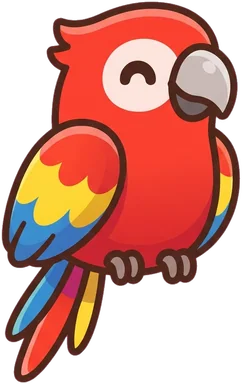
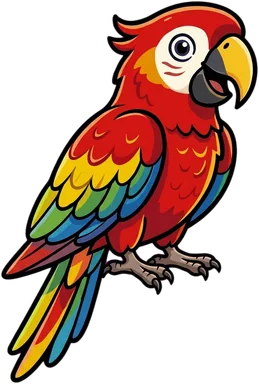
docs(todo): plan the parrot side card with fly-away and badge, owner's parrot pictures
Claude-Session: https://claude.ai/code/session_01Tigrh5qHc7XNxY2ag26vt9

diff --git a/.todo/67-parrot.md b/.todo/67-parrot.md
@@ -1,0 +1,107 @@
+# 67 - Parrot: a side card in every world that trains the same words until the fingers know them
+
+Source: `.research/game/activities.md`, section "The parrot" and decisions 8 and 10 (owner,
+2026-10-25). Pictures are ready: `ui-act-parrot` (card, a macaw) and `ui-badge-parrot` (badge,
+the macaw on a round branch), both in `public/assets/`.
+
+## What and why
+- Every world gets a **parrot card** next to its target range card. The parrot round repeats a
+  few words many times, so the fingers learn them (muscle memory). Speed is not judged; slow
+  typing is fine, the point is the practice.
+- A world's parrot counts as **won** once its round is finished. Won parrots can **fly away**
+  over time, so the child comes back and practises again.
+- The **Papagáj badge** (all parrots at home) is worth 7 points in the treasure chest and is
+  the one badge shown next to the player's name.
+
+## Affected
+- Data: profile progress (`src/storage/schema.ts`), a migration in `src/storage/store.ts`
+  (version 8 -> 9). Export files carry the new fields (old files migrate).
+- Game: new level kind `parrot` (`src/game/levels.ts`), new mode `src/game/modes/parrot.ts`,
+  `src/game/modes.ts`, end screen in `src/screens/level.ts`.
+- New pure logic `src/game/parrots.ts` (fly-away, badge) with tests.
+- Rewards: `src/game/rewards.ts` (chest +7, `MAX_CHEST` 60 -> 67).
+- Screens: map card node and narrator line (`src/screens/map.ts`), badge next to the name on
+  the start page card (`src/ui/profile-card.ts`), under the character on "Môj postup"
+  (`src/screens/stats.ts`) and on the map card (`src/screens/map.ts`).
+- i18n sk/en + guide, help (`help.more`, `help.games`), styles.
+- Specs: new `.specify/game/parrot.md` (+ `index.md`), `profiles/statistics.md` (chest 67),
+  `experience/help.md`, `experience/visuals.md` (parrot card and badge).
+
+## Decisions taken here
+- **When it opens:** like the range, when the world is done (`worldsDone`). The card shows
+  from then on: grey picture while the parrot is not won or flew away, full colour when won.
+  It starts only when the child clicks it, never by "Pokračovať".
+- **Badge:** held when every world in `worldsDone` has its parrot won (and at least one is).
+  A new finished world without its parrot takes the badge away until that parrot is won; this
+  follows the owner's "all parrots of the worlds I have".
+- **Stored fields** in `progress`: `parrots: number[]` (worlds with the parrot won),
+  `parrotBest: number` (highest count ever), `parrotWonAt: string | null` (ISO day of the last
+  win), `parrotCheckedAt: string | null` (last day the fly-away was rolled), `parrotFlown:
+  number[]` (worlds that flew away and are not yet told; cleared when the map shows the line).
+  Migration: empty lists, 0, null.
+- **Fly-away** (`src/game/parrots.ts`, pure, takes the profile, today's ISO day and an rng):
+  - floor = max(1, parrotBest - 3); nothing flies while count <= floor.
+  - for each day after `parrotCheckedAt` up to today (first ever check: only today): 20 %
+    chance one random won parrot flies away (not below the floor).
+  - if today is 21 or more days after `parrotWonAt`: drop straight to the floor (random ones).
+  - flown worlds go to `parrotFlown`; `parrotCheckedAt` = today.
+  - Runs once when a profile opens its map (also after import). The super player (memory only)
+    runs it too; that is harmless.
+- **Winning:** finishing the round adds the world to `parrots` (if not there), updates
+  `parrotBest`, sets `parrotWonAt` = today. Replaying a won parrot only refreshes `parrotWonAt`.
+- **Round size** by story order s (1 dragon, 2 robot, 3 fairy) and the world's place w (1-5):
+
+  | | s = 1 | s = 2 | s = 3 |
+  |---|---|---|---|
+  | words | 3 | 4 | 5 |
+  | letters per word | w <= 2: 2-4, else 3-5 | w <= 2: 4-5, else 4-6 | w <= 2: 5-6, else 5-7 |
+  | repeats per word (phase 2) | 3 | 4 | 5 |
+
+  Words: the world's last level key set, through the normal word source with that length
+  range, real words when the pool allows (drills in the meadow's tiny key set are fine), all
+  different and with different first letters where possible; new words each play.
+- **Round:** phase 1 (learning): the words in turn, 3 rounds (dom strom časy dom strom časy
+  dom strom časy). Phase 2 (repeating): each word its number of times in a row. A wrong key
+  adds 2 repetitions of the current word, at most +6 per word. One target at a time; the next
+  one is shown greyed after it so the child sees what comes.
+- **Scene:** the world's own background (as the range). Tapko left, the parrot (`ui-act-parrot`
+  drawn as a sprite) on a perch at the right. The word to type is in a bubble between them; when
+  it is typed, the parrot "repeats" it: a bubble from the parrot with the same word and a short
+  squawk sound (the voice reads it only when reading aloud is on). Phase 2 starts with one
+  line of Tapko ("Teraz každé slovo niekoľkokrát za sebou.").
+- **No stars**, no rating of speed. The typing counts in statistics, the paw charge and keys
+  as in the range. Super help works as everywhere (nothing can be missed).
+- **End screen:** the parrot in colour, "Papagáj sa naučil tvoje slová!", the words learned,
+  and, the first time the badge is reached, the badge picture with its line.
+- **Map line when parrots flew away:** the narrator bubble on the map: "Uletel ti papagáj zo
+  sveta {world}. Choď poň!" (several: "Uleteli ti papagáje zo svetov ..."). Shown once.
+- **Badge places:** a small badge picture (about 28 px, tooltip "Odznak Papagáj: všetky
+  papagáje sú doma") right of the name on the start page's player card and on the map's
+  hello title; on "Môj postup" just under the character. Nothing when the badge is not held.
+
+## Steps
+- [ ] 1. Data: new progress fields, migration 8 -> 9 with a store test (old export imports).
+- [ ] 2. `src/game/parrots.ts`: floor, daily rolls with catch-up, 21-day drop, win, badge;
+      unit tests (13 missed days = 13 rolls, floor kept, last parrot stays, 21-day drop, badge
+      lost when a world is added).
+- [ ] 3. Level kind `parrot` and `parrotLevel(p, world)` like `aimLevel`, with the round size
+      table; route `id: 'parrot'` in `src/screens/level.ts`.
+- [ ] 4. `ParrotMode`: phases, +2 repeats per slip (cap 6), parrot repeat bubble and sound,
+      progress bar, finished state; test the word plan (counts, repeats, cap) as pure code.
+- [ ] 5. End screen and winning (step 2's win), no stars.
+- [ ] 6. Map: parrot node after the range node (grey or colour picture, tooltip), fly-away run
+      on map open, narrator line for flown parrots.
+- [ ] 7. Badge: chest +7 (`MAX_CHEST` 67), badge picture on the start card, map title and
+      "Môj postup".
+- [ ] 8. i18n sk/en + guide (`parrot.*`, `map.parrotTip`, badge line, help lines in
+      `help.more` and a `help.games` line for the parrot).
+- [ ] 9. Specs: `.specify/game/parrot.md` (+ index), statistics (chest 67), help, visuals;
+      research status in `.research/game/activities.md`.
+- [ ] 10. Verify: build, unit tests, e2e touched specs; playwright: open a parrot from the map
+      (super player), play a round with slips (super help 2 mistakes), see the card turn colour,
+      the badge next to the name, and a fly-away (set `parrotCheckedAt` back in the store) with
+      the map line.
+
+## Out of scope
+- The other activities (memory pairs, jumble, secret words rules, dictation word filter):
+  later plans after the meadow playtest.

diff --git a/assets-src/PROMPTS.md b/assets-src/PROMPTS.md
@@ -931,8 +931,8 @@ Cute, soft 2D children's game icon, flat vector style with gentle gradients, sof
 | `ui-act-catch.jpg` | three small round shiny water drops sitting still in a row on a short green blade, one a little bigger (waiting words) |
 | `ui-act-pairs.jpg` | two small rounded playing cards side by side, the left one face down with a soft dot pattern, the right one turned over showing a tiny red heart (memory pairs) |
 | `ui-act-jumble.jpg` | two small rounded square tiles side by side with a curved arrow above them going from one to the other, swapping places, tiles blank (jumble) |
-| `ui-act-parrot.jpg` | a cute round scarlet macaw parrot sitting, bright red body, big round cream eye patch with a happy closed eye, grey curved beak, red-yellow-blue wings and long tail feathers, small grey feet (parrot card on the world, grey until won; add "bright cheerful saturated palette"; the owner's own pick from Gemini) |
-| `ui-badge-parrot.jpg` | the head and shoulders of a cute round green parrot with a small orange beak and a happy eye, beak a little open as if repeating a word (the Parrot badge next to the player's name) |
+| `ui-act-parrot.jpg` | a cute scarlet macaw parrot standing in three-quarter view, red body, cream face patch with a round eye, yellow and black beak a little open, red-yellow-green-blue wings, long colorful tail, grey feet (parrot card on the world, grey until won; the owner's own pick from Gemini) |
+| `ui-badge-parrot.jpg` | the same macaw sitting on a branch that curves around it in a round frame, green and colorful leaves and small berries along the branch (the Parrot badge; the owner's own pick from Gemini) |
 | `ui-act-clean.jpg` | a short straight ribbon with a small round green check mark at its end (a clean line) |
 | `ui-act-build.jpg` | three small rounded building blocks stacked, the top one just landing (building) |
 | `ui-act-text.jpg` | an open book with a few soft grey lines on its pages, no letters (text page) |

diff --git a/.research/game/activities.md b/.research/game/activities.md
@@ -104,8 +104,8 @@ minutes (the fairy story: 5 words x 8 times x 6 letters is about 240 keys).
 - The badge is worth 7 points in the treasure chest of rarities (the chest's maximum grows
   from 60 to 67). It is the one badge shown next to the player's name: on the start page's
   player card, just under the character on "Môj postup", and on the player's map.
-- The badge picture is `ui-badge-parrot` (green parrot head).
-- The world card carries a parrot icon next to the target (`ui-act-parrot`, a red macaw): grey while that
+- The badge picture is `ui-badge-parrot` (the macaw on a round branch). Implementation plan: `.todo/67-parrot.md`.
+- The world card carries a parrot icon next to the target (`ui-act-parrot`, a macaw): grey while that
   world's parrot is not won (or flew away), in full colour when it is won and counted.
 
 Is it too complicated? For the child it is simple: "a parrot flew away, go get it back". The

diff --git a/.todo/QUEUE.md b/.todo/QUEUE.md
@@ -6,3 +6,4 @@ each in its own clean session. One line per plan in `.todo/`:
 listed here is never run. Lines whose plan has moved to `.todo/.done/` are
 skipped, and the session that finishes a plan removes its line.
 
+- [P2] 67-parrot.md - parrot side card, fly-away and badge; decided and pictures ready, independent of the meadow playtest
